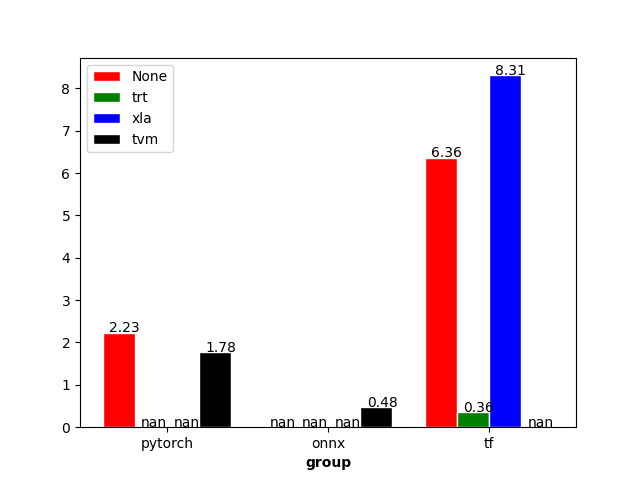
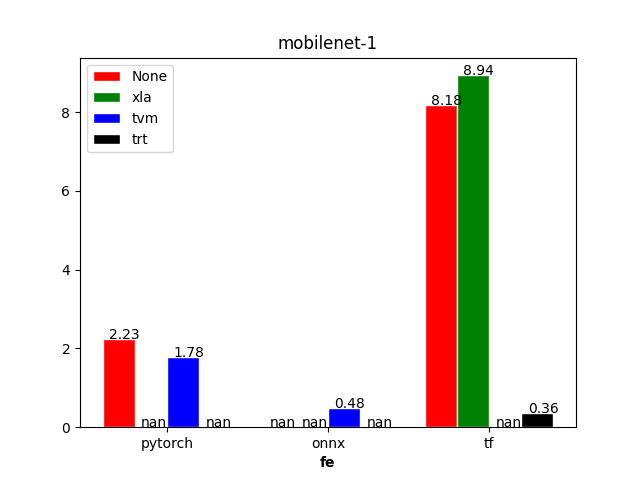
add title to plot

diff --git a/doc/visual.py b/doc/visual.py
@@ -5,19 +5,15 @@ import numpy as np
 import matplotlib.pyplot as plt
 
 
-def grouped_barplot(data, filename):
+def grouped_barplot(data, title, filename):
     fig = plt.figure()
     labels = set()
     groups = set()
     for (label, group), _ in data.items():
         labels.add(label)
         groups.add(group)
-    print(labels)
-    print(groups)
     groups = [g for g in groups]
     labels = [l for l in labels]
-    print(labels)
-    print(groups)
     values = []
     for label in labels:
         vals = []
@@ -60,10 +56,11 @@ def grouped_barplot(data, filename):
                 yval = '{:.2f}'.format(yval)
             plt.text(bar.get_x() + 0.03, pos, yval)
     # Add xticks on the middle of the group bars
-    plt.xlabel('group', fontweight='bold')
+    plt.xlabel('fe', fontweight='bold')
     plt.xticks([r + 1.5 * barWidth for r in rs[0]], groups)
 
     # Create legend & Show graphic
+    plt.title(title)
     plt.legend()
     plt.show()
 
@@ -90,7 +87,9 @@ def visualize(directory, batch_size):
                 optimizer = ''
             data[(optimizer, row['fe'])] = row['time']
         print(model, batch_size, '\n', data)
-        grouped_barplot(data, os.path.join(directory, '{}-{}.png'.format(model, batch_size)))
+        title = '{}-{}'.format(model, batch_size)
+        grouped_barplot(data, title,
+                        os.path.join(directory, '{}.png'.format(title)))
 
 
 if __name__ == "__main__":

diff --git a/doc/exp/report.md b/doc/exp/report.md
@@ -1,0 +1,63 @@
+# Device
+```bash
++-----------------------------------------------------------------------------+
+| NVIDIA-SMI 460.32.03    Driver Version: 460.32.03    CUDA Version: 11.2     |
+|-------------------------------+----------------------+----------------------+
+| GPU  Name        Persistence-M| Bus-Id        Disp.A | Volatile Uncorr. ECC |
+| Fan  Temp  Perf  Pwr:Usage/Cap|         Memory-Usage | GPU-Util  Compute M. |
+|                               |                      |               MIG M. |
+|===============================+======================+======================|
+|   0  Tesla T4            On   | 00000000:00:09.0 Off |                    0 |
+| N/A   37C    P8    10W /  70W |      0MiB / 15109MiB |      0%      Default |
+|                               |                      |                  N/A |
++-------------------------------+----------------------+----------------------+
+
++-----------------------------------------------------------------------------+
+| Processes:                                                                  |
+|  GPU   GI   CI        PID   Type   Process name                  GPU Memory |
+|        ID   ID                                                   Usage      |
+|=============================================================================|
+|  No running processes found                                                 |
++-----------------------------------------------------------------------------+
+```
+# Version
+## TVM
+```bash
+tvm: 0.8.dev0
+clang+llvm: clang+llvm-11.0.1-x86_64-linux-gnu-ubuntu-16.04
+cuda: 11.1.1
+torch==1.7.0
+tensorflow==1.12.0
+onnx==1.8.1
+```
+## XLA
+```
+cuda: 11.0 
+tensorflow==2.2.0
+```
+## TRT
+```
+cuda: 10.1
+nvidia-tensorrt==7.2.2.3
+tensorflow==2.1.0
+```
+# Reuslt
+**device=gpu, batch-size=1**
+
+<img src="inception-1.png"  width="500px"/>
+
+<img src="mobilenet-1.png"  width="500px"/>
+
+<img src="resnet50-1.png"  width="500px"/>
+
+<img src="vgg16-1.png"  width="500px"/>
+
+**device=gpu, batch-size=64**
+
+<img src="inception-64.png"  width="500px"/>
+
+<img src="mobilenet-64.png"  width="500px"/>
+
+<img src="resnet50-64.png"  width="500px"/>
+
+<img src="vgg16-64.png"  width="500px"/>

diff --git a/README.md b/README.md
@@ -1,28 +1,27 @@
 # dl-infer-perf
 A perf analysis of deep learning inference performance over pytorch/tensorflow and TensorRT/XLA/TVM.
 
-## Usage
-
-### Environments
-#### TVM
+## Environments
+### TVM
 docker: nvidia/cuda:11.1.1-devel-ubuntu18.0
 
-compile tvm with llvm
+compile tvm with llvm (clang+llvm-11.0.1-x86_64-linux-gnu-ubuntu-16.04)
 
-virtualenv:
+**virtualenv**:
   - [tvm-torch-env](doc/tvm-torch-env-req.txt)
   - [tvm-tf-env](doc/tvm-tf-env-req.txt)
   - [tvm-onnx-env](doc/tvm-onnx-env-req.txt)
 
-#### XLA
-docker: nvcr.io/nvidia/tensorflow:20.07-tf1-py3
+### XLA
+docker: nvcr.io/nvidia/tensorflow:20.07-tf2-py3
 
-#### TensorRT
+### TensorRT
 docker: nvcr.io/nvidia/tensorrt
 
-virtualenv:
+**virtualenv**:
   - [trt-tf-env](doc/trt-tf-env-req.txt)
 
+## Usage
 ### Run per optimizer&frontend
 ```bash
 usage: executor.py [-h] [-w WARMUP] [-r ROUNDS] [-s SIZE]
@@ -71,7 +70,7 @@ bash jobs.sh <optimizer> <exp_id>
 ```
 
 ## Report
-See (doc)[!doc/] for reports.
+See [report](doc/exp/report.md) for detailed report.
 
 ## Code Format
 yapf infer_perf/*.py -i --style yapf.style 
